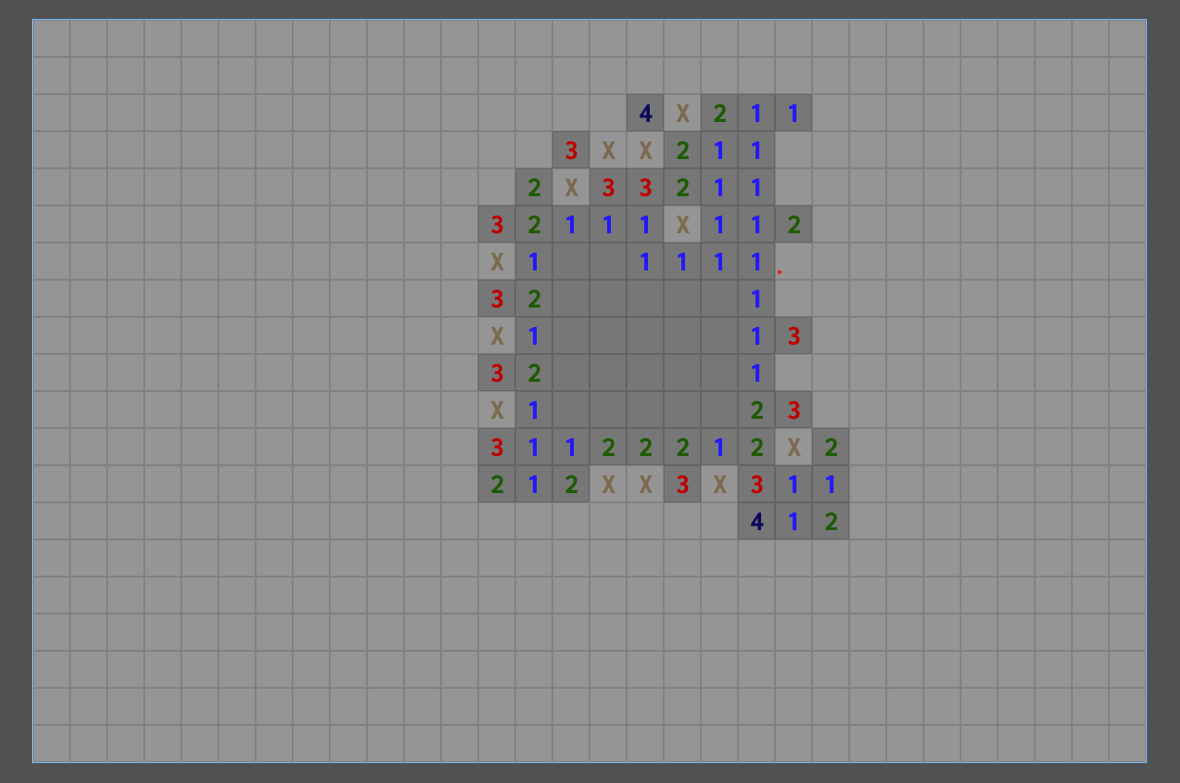
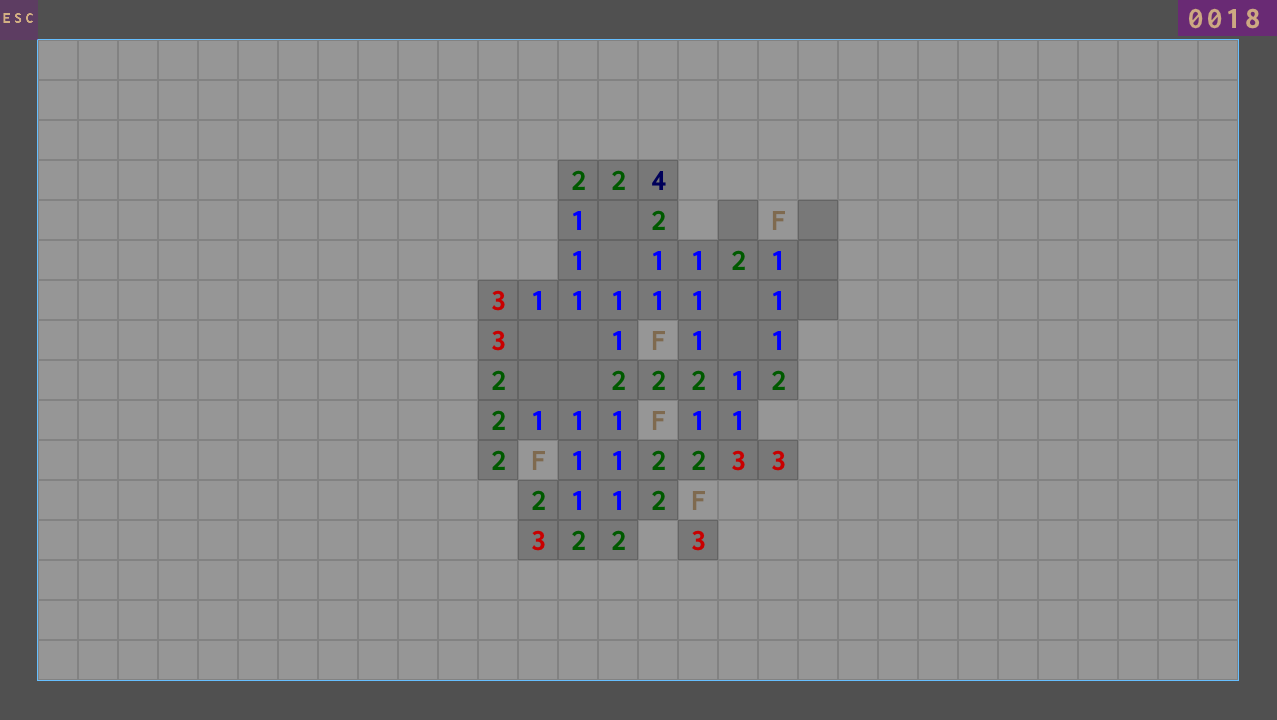
gameover screen improved indication of falsely flagged tiles. Changed UI tile notation for mines/flags. Updated the README

Changed region(s): [[0.3661, 0.1222, 0.7322, 0.7944], [0.0, 0.0, 1.0, 0.0611], [0.0, 0.9167, 0.9763, 0.9778]]

diff --git a/minesweeper-clone/src/screen_gameplay.c b/minesweeper-clone/src/screen_gameplay.c
@@ -543,6 +543,11 @@ void UpdateGameplayScreen(void)
                 {
                     boardMask[y][x] = 0;
                 }
+                else if ((board[y][x] >= 0) && boardMask[y][x] == 2)
+                {
+                    // All incorrectly flagged spaces should also be revealed.
+                    boardMask[y][x] = -1;
+                }
             }
         }
     }
@@ -579,12 +584,12 @@ void DrawGameplayScreen(void)
     {
         for (int x = 0; x < boardWidth; ++x)
         {
-            Rectangle boardTile = MakeRectFromTile(x,y);
+            Rectangle boardTile = MakeRectFromTile(x, y);
             Color tileColor = { 120,120,120,255 };
             Color textColor = BLACK;
             char tileTextSymbol[4];
 
-            if (boardMask[y][x] > 0) // Draw hidden tile
+            if (boardMask[y][x] > 0) // Draw hidden tiles
             {
                 textColor = { 0,0,0,0 };
                 if (!(clickL && CheckCollisionPointRec(mousePos, boardTile)))
@@ -592,7 +597,7 @@ void DrawGameplayScreen(void)
                     tileColor = { 150,150,150,255 };
                     if (boardMask[y][x] == 2)
                     {
-                        sprintf(tileTextSymbol, "X\n");
+                        sprintf(tileTextSymbol, "F\n");
                         textColor = BROWN; // Draw flag
                     }
                 }
@@ -617,7 +622,7 @@ void DrawGameplayScreen(void)
                     }
                 }
             }
-            else // Comment out this line to see tile values through the mask.
+            else if (boardMask[y][x] == 0) // Draw revealed tiles
             {
                 sprintf(tileTextSymbol, "%d\n", board[y][x]);
                 switch (board[y][x])
@@ -626,7 +631,7 @@ void DrawGameplayScreen(void)
                     tileColor = DARKBROWN;
                 case -1:
                     textColor = { 255,255,255,255 };
-                    sprintf(tileTextSymbol, "X\n");
+                    sprintf(tileTextSymbol, "#\n");
                     break;
                 case 0:
                     textColor = { 0,0,0,0 };
@@ -657,6 +662,12 @@ void DrawGameplayScreen(void)
                     break;
                 }
             }
+            else // Draw incorrectly flagged tiles when the game ends.
+            {
+                tileColor = { 150,150,150,255 };
+                textColor = RED;
+                sprintf(tileTextSymbol, "X\n");
+            }
             DrawRectangle(boardTile.x, boardTile.y, tileSize, tileSize, tileColor);
             tileColor.r -= 20;
             tileColor.g -= 20;
@@ -665,7 +676,7 @@ void DrawGameplayScreen(void)
             if (textColor.a > 0)
             {
                 DrawTextEx(font, tileTextSymbol, { boardTile.x + tileSize / 3, boardTile.y + tileSize / 10 },
-                           textSize, font.glyphPadding, textColor);
+                    textSize, font.glyphPadding, textColor);
             }
         }
     }

diff --git a/minesweeper-clone/src/minesweeper_game.c b/minesweeper-clone/src/minesweeper_game.c
@@ -4,7 +4,7 @@
 *
 *   Game title: Minesweeper Clone
 *   Game description: <Game description>
-*       Copyright (c) 2023 (DoughnutDude)
+*       Copyright (c) 2024 (DoughnutDude)
 *
 *   This game has been created using raylib (www.raylib.com)
 *   raylib is licensed under an unmodified zlib/libpng license (View raylib.h for details)
@@ -15,7 +15,7 @@
 
 /**********************************************************************************************
 *   Modified from the original software for use in Minesweeper Clone
-*   Copyright (c) 2023 (DoughnutDude)
+*   Copyright (c) 2024 (DoughnutDude)
 **********************************************************************************************/
 
 #include "raylib.h"

diff --git a/minesweeper-clone/src/screens.h b/minesweeper-clone/src/screens.h
@@ -83,7 +83,7 @@ extern float timer;
 extern float timeStart;
 
 extern int board[maxBoardHeight][maxBoardWidth]; // -2 = mine(clicked on), -1 = mine, non-negative = number of adjacent mines
-extern int boardMask[maxBoardHeight][maxBoardWidth]; // 0 = revealed, 1 = hidden, 2 = flagged
+extern int boardMask[maxBoardHeight][maxBoardWidth]; // 0 = revealed, 1 = hidden, 2 = flagged, -1 = incorrectly flagged (only used for game lose screen)
 
 #ifdef __cplusplus
 extern "C" {            // Prevents name mangling of functions

diff --git a/README.md b/README.md
@@ -35,12 +35,15 @@ Mouse:
 
 Keyboard:
  - WASD: Camera/screen movement
+ - Ctrl + R: Start new board
+ - P: Reveal board (DEBUG)
  - ESC: Options menu
 
 ### Screenshots
 
 _TODO: Show your game to the world, animated GIFs recommended!._
 ![(Options Screen)](./minesweeper-clone/screenshots/screenshot003.png "Options Screen")
+![(Game Over)](./minesweeper-clone/screenshots/screenshot004.png "Game Over")
 
 
 ### Developers
